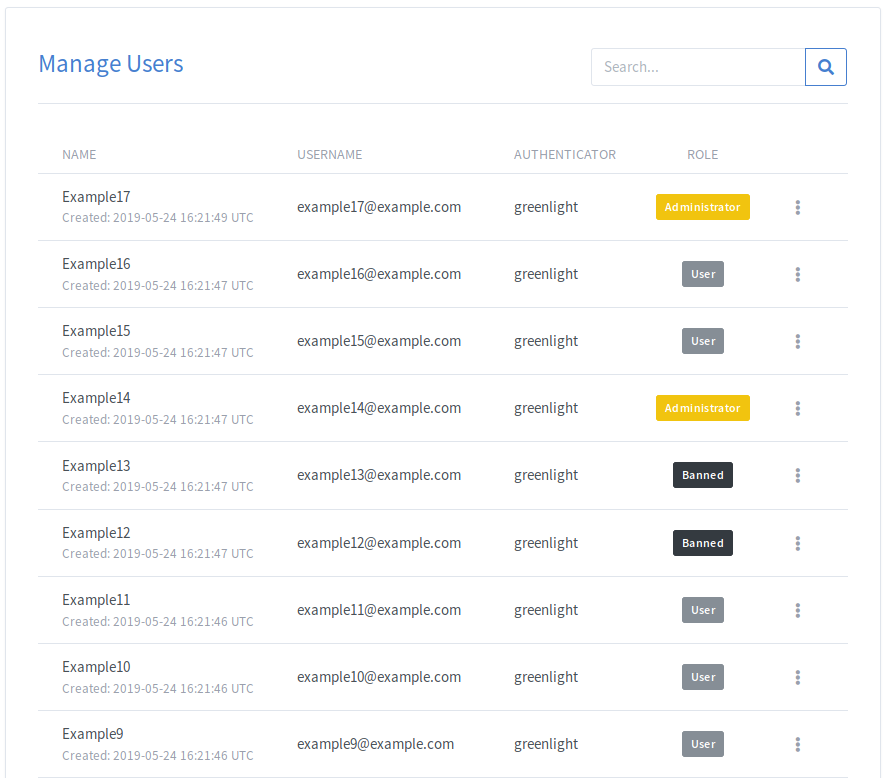
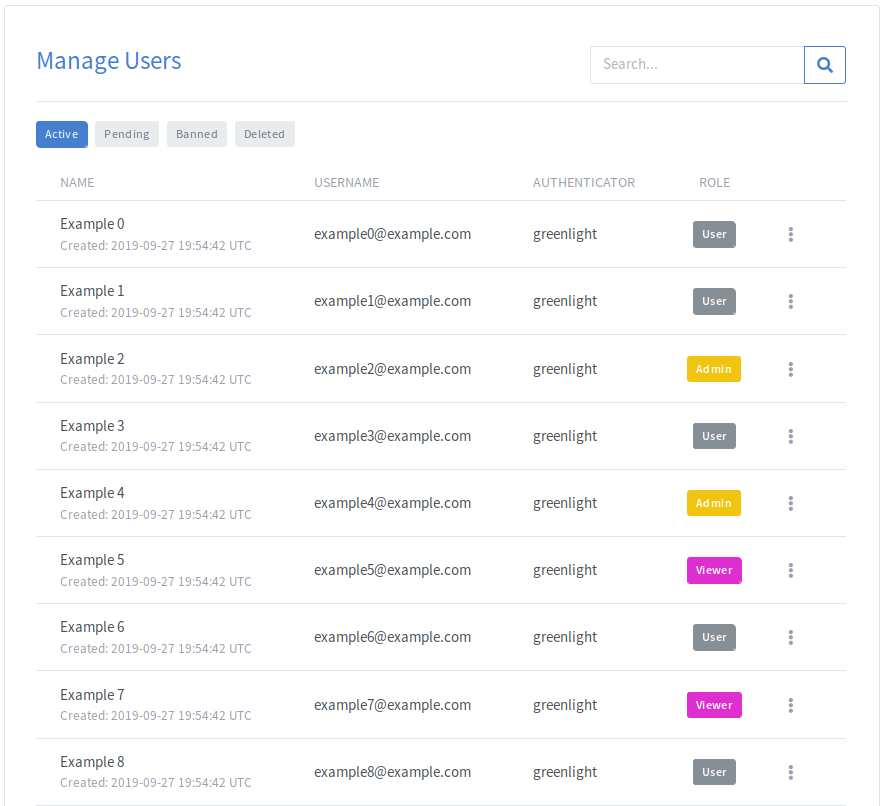
Greenlight v2.4

diff --git a/_posts/2019-04-15-gl-admin.md b/_posts/2019-04-15-gl-admin.md
@@ -58,6 +58,20 @@ Administrators are also able to edit each account by clicking on the vertical el
 
 ![Greenlight Administrator Manage Users](/images/greenlight/admin_manage_users.png)
 
+### Tabs
+
+To switch between tabs, click on the tab that you want to switch to.
+
+![Greenlight Administrator Manage Users Tabs](/images/greenlight/admin_manage_users_tabs.png)
+
+| Tab               | Description |
+|:-----------------------|:------------|
+| Active | Users that are able to access the application using their account  |
+| Pending | Users that are awaiting approval to join the application |
+| Banned | Users that have been denied or banned |
+| Deleted | Users whose account has been deleted by an administrator |
+
+
 ### Search and Filter
 
 The search box can be used to filter based on the Name, Username, Authenticator or Creation Date of any user.
@@ -72,11 +86,19 @@ To filter by the Role, click on any of the Role buttons under the Role Column. T
 
 To delete an account, select Delete from the Account Dropdown. 
 
-While this removes the account from Greenlight the user will still be able to sign up to Greenlight using the same email in the future.
+Once an account gets deleted, the user will be moved to the **Deleted** tab.
+
+![Greenlight Administrator Manage Users Delete](/images/greenlight/admin_delete.png)
+
+From the **Deleted** tab, an administrator can then either recover the user's account and their associated rooms, or permanently delete the user. If a user is permanently deleted, it will **NOT** be possible to recover the account.
+
+**NOTE:** Permanently deleted users can resignup using the same email address of the account that was deleted. 
 
 ### Banning Accounts
 
 To ban an account, select Ban User from the account dropdown.
+
+Once an account gets banned, the user will be moved to the **Banned** tab.
 
 This will remove the account from Greenlight and will also prevent the user from signing up using the same email to Greenlight in the future.
 
@@ -181,7 +203,7 @@ The user(s) will receive an email with a button that will link them to the sign 
 
 Approve/Decline allows anyone to sign up for Greenlight, but that user must be Approved inorder for them to access the features available through Greenlight. 
 
-When a user signs up, they will be set to a Pending state. The Administrator will be able be able to view all Pending users in the Manage Users table.
+When a user signs up, they will be set to a Pending state. The Administrator will be able be able to view all Pending users in the **Pending** tab in the Manage Users table.
 
 If `ALLOW_MAIL_NOTIFICATIONS` is set to `true` in the `.env` file, then all Administrators will receive an email when a user signs up.
 
